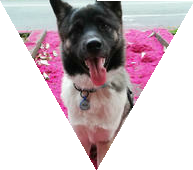
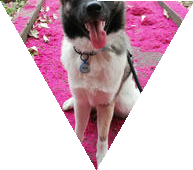
crop wasn't correct

diff --git a/import/src/actions.rs b/import/src/actions.rs
@@ -295,8 +295,16 @@ s3_store: Option<ObjectStore>)
 
     // Crop image into a max sized square for transformations that expect a square image
     let (rect_side, x, y) = match img.width() >= img.height() {
-        true => (img.height(), 0, img.width() - img.height() / 2),
-        false => (img.width(), img.height() - img.width() / 2, 0)
+        true => (
+            img.height(),
+            (img.width() - img.height()) / 2,
+            0
+        ),
+        false => (
+            img.width(),
+            0,
+            (img.height() - img.width()) / 2,
+        )
     };
     
     // We cropped the input image so transformable should be updated
@@ -306,10 +314,8 @@ s3_store: Option<ObjectStore>)
     transformable.target_ext = "png";
     
     // Create dynamic square image and read its contents to buffer
-    let mut img_square = img.clone();
-    img_square.crop(x, y, rect_side, rect_side);
-
-    let img_square_buf = img_square.to_rgba8();
+    let img_square = img.clone();
+    let img_square_buf = img_square.crop_imm(x, y, rect_side, rect_side).to_rgba8();
 
     // Crop and resize 'sm' size ROUND PNG image
     let img_circle = round_from_rect(&img_square_buf, rect_side);

diff --git a/import/src/transform/round.rs b/import/src/transform/round.rs
@@ -5,7 +5,7 @@ use super::*;
 
 
 pub fn round_from_rect(buf: &ImageBuffer<Rgba<u8>, Vec<u8>>, size: u32) -> DynamicImage {
-    // Draw a white circle on a black background that is the same size as the cropped image
+    // Draw a white circle on a transparent background that is the same size as the cropped image
     let div2 = (size / 2).try_into().unwrap();
     let mut img = RgbaImage::from_pixel(size, size, TRANSPARENT);
     
